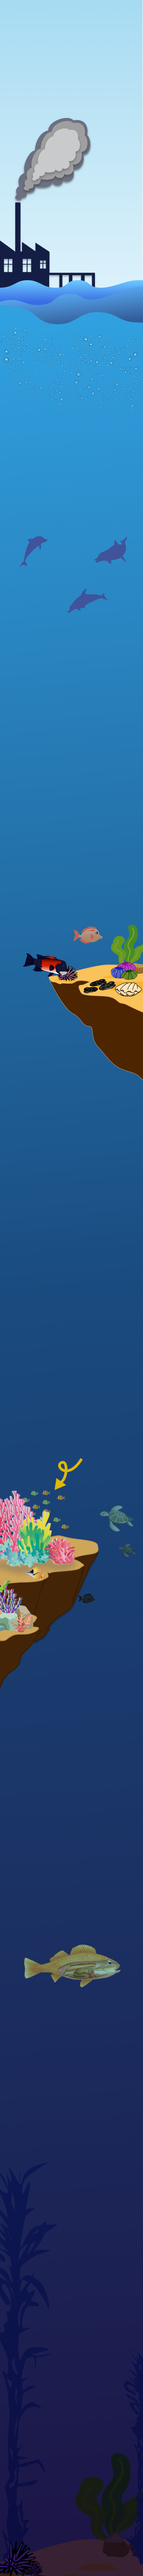
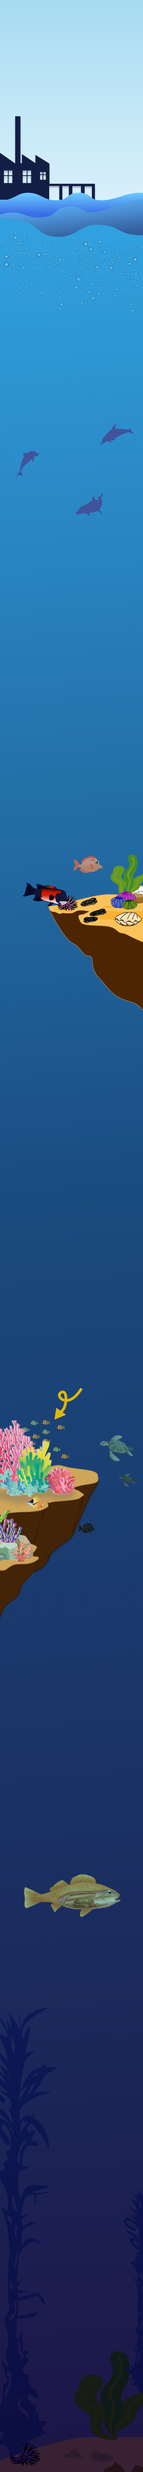
updated my section and the floating fish across the page

diff --git a/dcd midterm.html b/dcd midterm.html
@@ -9,16 +9,20 @@
         @import url('https://fonts.googleapis.com/css2?family=Ubuntu&display=swap');
         html {
             font-family: 'Ubuntu', sans-serif;
+            padding: 0;
             
         }
         
         .ana_section {
             display: flex;
             position: relative;
-            top: 4100px;
+            top: 2565px;
             align-items: center;
             flex-direction: column;
-            /* width: fit-content; */
+            height: 2100px;
+            overflow-x: hidden;
+            /* overscroll-behavior-x: hidden; */
+            /* overflow-x: hidden; */
         }
 
         .background{
@@ -35,14 +39,14 @@
             display: flex;
             justify-content: center;
             flex-direction: column;
-            overflow-x: hidden;
+            overflow-x: clip;
             width: fit-content;
             /* background-image: url(imgs/background.png) */
 
         }
         .smoke{
             position:relative;
-            top: 180px;
+            top: -145px;
             right: 95px;
         }
         
@@ -58,27 +62,60 @@
 </head>
 <body>
     <div>
-        <img src="imgs/background_3.png" width="500vw" height="" class="background">
+        <img src="imgs/background.png" width="500vw" class="background">
     </div>
-    <div class=smoke>
+    <sub-heading head_text="Ocean Acidification" top="-50px" left="100px" font-size="45px" alignment="center" color="#5D8ABF" text-shadow="0px 4px 4px rgba(0, 0, 0, 0.25)"></sub-heading>
+    <div class="smoke">
         <img src="imgs/smoke.gif" class="smoke" alt="smoke_animation">
     </div>
-    <the-swimming-fish class = "whale_shark" image = "imgs/whale_shark.png" width = "280px" blendmode="soft-light" leftstart="-400px" leftend="200px"></the-swimming-fish>
+    <div>
+        <sub-heading head_text="What is Ocean Acidification?" color="white" top="30px" left="100px" font-size="35px" alignment="center"></sub-heading>
+        <the-text content="Ocean acidification is the process of water becoming more acidic as it absorbs carbon dioxide from the atmosphere." width = "350px" top="10px" left="75px"></the-text>
+        <the-text content="Yearly, the ocean absorbs roughly" width = "350px" top="130px" left="75px"></the-text>
+        <the-text content="25%" font-size="30px" width = "350px" font-weight="bolder" top="110px" left="75px"></the-text>
+        <the-text content="of carbon dioxide released by human activities that change ocean significant water properties" width = "350px" top="100px" left="75px"></the-text>
+        <the-text content="Scroll down to see three major issues of Ocean Acidification." font-weight="bolder"color = "#DFB707" width = "300px" top="150px" left="100px" weight = "bold" alignment = "center"></the-text>
+    </div>
+    <appear-div img = "imgs/deadcoral.png" top = "3670px" left = "-75px"></appear-div>
     <div class="ana_section">
+        <the-swimming-fish class = "whale_shark" image = "imgs/whale_shark.png" width = "300px" blendmode="soft-light" leftstart="-400px" leftend="200px"></the-swimming-fish>
         <sub-heading class="ana_subheading" head_text="Damaged Coral Reef Habitats" width="200px" alignment="end" left="130px"></sub-heading>
-        <the-text class="ana_text1"content = "Coral Reefs, one of the most diverse and vital ecosystems, are being bleached out and destroyed." alignment = "end" width="290px" left="80px" top="150px"></the-text>
-        <the-text class="ana_text2" content = "The resurgence of high acidic ocean water has: " alignment = "start" width="340px" top="230px" left="-40px"></the-text>
-        <the-text class="ana_text3"content = " - boosted the process of coral bleaching" alignment = "start" width="340px" top="220px" left="-20px"></the-text>
-        <the-text class="ana_text4"content = " - affected the rapid growth coral needs to protect itself" alignment = "start" width="340px" top="200px" left="-20px"></the-text>
-        <the-text class="ana_text5"content = "But what does this bleaching look like?" width = "320px" top = "260px"></the-text>
-        <the-text class="ana_text6"content = "Click on the coral to see!" color = "#DFB707" top = "230px" font-weight = "bolder" font-size = "18px"></the-text>
-        <appear-div img = "imgs/deadcoral.png" top = "325px" left = "-150px"></appear-div>
-        <stat-background bg1="rgba(255, 19, 19, 0.45)" bg2="rgba(52, 255, 52, 0.45)" bg3="rgba(255, 19, 19, 0.45)" head_text="What percent of the world’s coral reefs are damaged because of coral bleaching (and other factors)?" info_text="40%" info_text2="70%" info_text3="80%" top="600px"></stat-background>
-        <interesting-fact head_text="Why are Coral Reefs Important?" top="800px"></interesting-fact>
+        <the-text class="ana_text1"content = "Coral Reefs, one of the most diverse and vital ecosystems, are being bleached out and destroyed." alignment = "end" width="290px" left="80px" top="20px"></the-text>
+        <the-text class="ana_text2" content = "The resurgence of high acidic ocean water has: " alignment = "start" width="340px" top="70px" left="-40px"></the-text>
+        <the-text class="ana_text3"content = " - boosted the process of coral bleaching" alignment = "start" width="340px" top="50px" left="-20px"></the-text>
+        <the-text class="ana_text4"content = " - affected the rapid growth coral needs to protect itself" alignment = "start" width="340px" top="30px" left="-20px"></the-text>
+        <the-text class="ana_text5"content = "But what does this bleaching look like?" width = "320px" top = "80px"></the-text>
+        <the-text class="ana_text6"content = "Click on the coral to see!" color = "#DFB707" top = "50px" font-weight = "bolder" font-size = "18px"></the-text>
+        <stat-background bg1="rgba(255, 19, 19, 0.45)" bg2="rgba(52, 255, 52, 0.45)" bg3="rgba(255, 19, 19, 0.45)" head_text="What percent of the world’s coral reefs are damaged because of coral bleaching (and other factors)?" info_text="40%" info_text2="70%" info_text3="80%" top="700px"></stat-background>
+        <interesting-fact head_text="Why are Coral Reefs Important?" top="850px"></interesting-fact>
     </div>
     <the-text content = "Shallow-water fish have complex regulatory mechanisms and good metabolic system." color = "#DFB707" width = "300px" weight = "bold" alignment = "left"></the-text>
     <the-heading-text head-text = "What Is Ocean Acidification?" color = "white" shadow = "none" font-size = "36px"></the-heading-text>
-    <the-swimming-fish image = "imgs/fish-water-png-3925.png" width = "100px"></the-swimming-fish>
+    <!-- <the-swimming-fish image = "imgs/fish-water-png-3925.png" width = "100px"></the-swimming-fish> -->
     <the-floating-fish image = "imgs/fish-png-26357.png" width = "200px"></the-floating-fish>
 </body>
 </html>
+
+<!-- <div>
+    <img src="imgs/back.png" width="500vw" class="background">
+</div>
+<sub-heading head_text="Ocean Acidification" top="-100px" left="100" font-size="45px" alignment="center" color="#5D8ABF" text-shadow="0px 4px 4px rgba(0, 0, 0, 0.25)"></sub-heading>
+<div class = "smoke">
+    <img src="imgs/smoke.gif" class="smoke" alt="smoke_animation">
+</div>
+<appear-div img = "imgs/deadcoral.png" top = "4825px" left = "-73px"></appear-div>
+<div class="ana_section">
+    <the-swimming-fish class = "whale_shark" image = "imgs/whale_shark.png" width = "280px" blendmode="soft-light" leftstart="-400px" leftend="200px"></the-swimming-fish>
+    <sub-heading class="ana_subheading" head_text="Damaged Coral Reef Habitats" width="200px" alignment="end" left="130px"></sub-heading>
+    <the-text class="ana_text1"content = "Coral Reefs, one of the most diverse and vital ecosystems, are being bleached out and destroyed." alignment = "end" width="290px" left="80px" top="320px"></the-text>
+    <the-text class="ana_text2" content = "The resurgence of high acidic ocean water has: " alignment = "start" width="340px" top="230px" left="-40px"></the-text>
+    <the-text class="ana_text3"content = " - boosted the process of coral bleaching" alignment = "start" width="340px" top="220px" left="-20px"></the-text>
+    <the-text class="ana_text4"content = " - affected the rapid growth coral needs to protect itself" alignment = "start" width="340px" top="200px" left="-20px"></the-text>
+    <the-text class="ana_text5"content = "But what does this bleaching look like?" width = "320px" top = "260px"></the-text>
+    <the-text class="ana_text6"content = "Click on the coral to see!" color = "#DFB707" top = "230px" font-weight = "bolder" font-size = "18px"></the-text>
+    <stat-background bg1="rgba(255, 19, 19, 0.45)" bg2="rgba(52, 255, 52, 0.45)" bg3="rgba(255, 19, 19, 0.45)" head_text="What percent of the world’s coral reefs are damaged because of coral bleaching (and other factors)?" info_text="40%" info_text2="70%" info_text3="80%" top="900px"></stat-background>
+    <interesting-fact head_text="Why are Coral Reefs Important?" top="1050px"></interesting-fact>
+</div>
+<the-text content = "Shallow-water fish have complex regulatory mechanisms and good metabolic system." color = "#DFB707" width = "300px" weight = "bold" alignment = "left"></the-text>
+<the-heading-text head-text = "What Is Ocean Acidification?" color = "white" shadow = "none" font-size = "36px"></the-heading-text>
+<the-floating-fish image = "imgs/fish-png-26357.png" width = "200px"></the-floating-fish> -->

diff --git a/comps/text.js b/comps/text.js
@@ -57,42 +57,42 @@ class TheText extends HTMLElement {
     }
     HandleContScroll(scrollNum=0){
         console.log("scroll", scrollNum);
-        if(scrollNum < 3400){
+        if(scrollNum < 3000){
             document.querySelector(".whale_shark").lefty()
         } else {
              document.querySelector(".whale_shark").righty()
         }
-        if(scrollNum < 4000){
+        if(scrollNum < 3750){
             document.querySelector(".ana_subheading").opacityOff()
          } else {
              document.querySelector(".ana_subheading").opacityOn()
          }
-        if(scrollNum < 4200){
+        if(scrollNum < 3800){
            document.querySelector(".ana_text1").opacityOff()
         } else {
             document.querySelector(".ana_text1").opacityOn()
         }
-        if(scrollNum < 4300){
+        if(scrollNum < 3850){
             document.querySelector(".ana_text2").opacityOff()
          } else {
              document.querySelector(".ana_text2").opacityOn()
         }
-        if(scrollNum < 4350){
+        if(scrollNum < 3900){
             document.querySelector(".ana_text3").opacityOff()
          } else {
              document.querySelector(".ana_text3").opacityOn()
         }
-        if(scrollNum < 4400){
+        if(scrollNum < 4000){
             document.querySelector(".ana_text4").opacityOff()
          } else {
              document.querySelector(".ana_text4").opacityOn()
         }
-        if(scrollNum < 4550){
+        if(scrollNum < 4150){
             document.querySelector(".ana_text5").opacityOff()
          } else {
              document.querySelector(".ana_text5").opacityOn()
         }
-        if(scrollNum < 4650){
+        if(scrollNum < 4200){
             document.querySelector(".ana_text6").opacityOff()
          } else {
              document.querySelector(".ana_text6").opacityOn()

diff --git a/comps/sub_heading.js b/comps/sub_heading.js
@@ -10,6 +10,7 @@ template_subhead.innerHTML = `
         color: white;
         font-size: 21px;
         font-weight: bold;
+        margin-top: 200px
     }
 </style>
 <p>Hey There</p>
@@ -31,6 +32,10 @@ class SubHead extends HTMLElement {
         this.shadowRoot.appendChild(template_subhead.content.cloneNode(true)); //use the template to make a clone
         this.shadowRoot.querySelector("p").style.position="relative";
         this.shadowRoot.querySelector("p").style.top = this.getAttribute("top");
+        this.shadowRoot.querySelector("p").style.fontSize = this.getAttribute("font-size");
+        this.shadowRoot.querySelector("p").style.textShadow = this.getAttribute("text-shadow");
+        this.shadowRoot.querySelector("p").style.display = this.getAttribute("display");
+        this.shadowRoot.querySelector("p").style.color = this.getAttribute("color");
         this.shadowRoot.querySelector("p").style.left = this.getAttribute("left");
         this.shadowRoot.querySelector("p").style.width = this.getAttribute("width");
         this.shadowRoot.querySelector("p").innerText = this.getAttribute("head_text");

diff --git a/comps/swimming_fish.js b/comps/swimming_fish.js
@@ -41,16 +41,16 @@ class TheSwimFish extends HTMLElement {
 
     lefty(){
         this.shadowRoot.querySelector("img").style.cssText += `
-            left:-280px;
-            top: 3600px;
+            left:-450px;
+            top: 200px;
             transition:0s
             `
     }
     righty(){
         this.shadowRoot.querySelector("img").style.cssText += `
-            left:500px;
-            top: 3350px;
-            transition: 19s
+            left:250px;
+            top: -100px;
+            transition: 18s
             `
     }
     //To-do - CREATE THE FUNCTIONALITIES HERE!

diff --git a/comps/appear.js b/comps/appear.js
@@ -5,13 +5,15 @@ var template_appear = document.createElement("template"); //<template> </templat
 template_appear.innerHTML = `
 <style>
 .appeardiv{
-    width:327px;
+    width:340px;
     height:285px;
     position: relative;
     background-image: url("imgs/deadcoral.png");
     background-size: cover;
     opacity:0;
-    left:0px
+    left:0px;
+    overflow-x:visible;
+    z-index: 1
 
 }
 </style>
